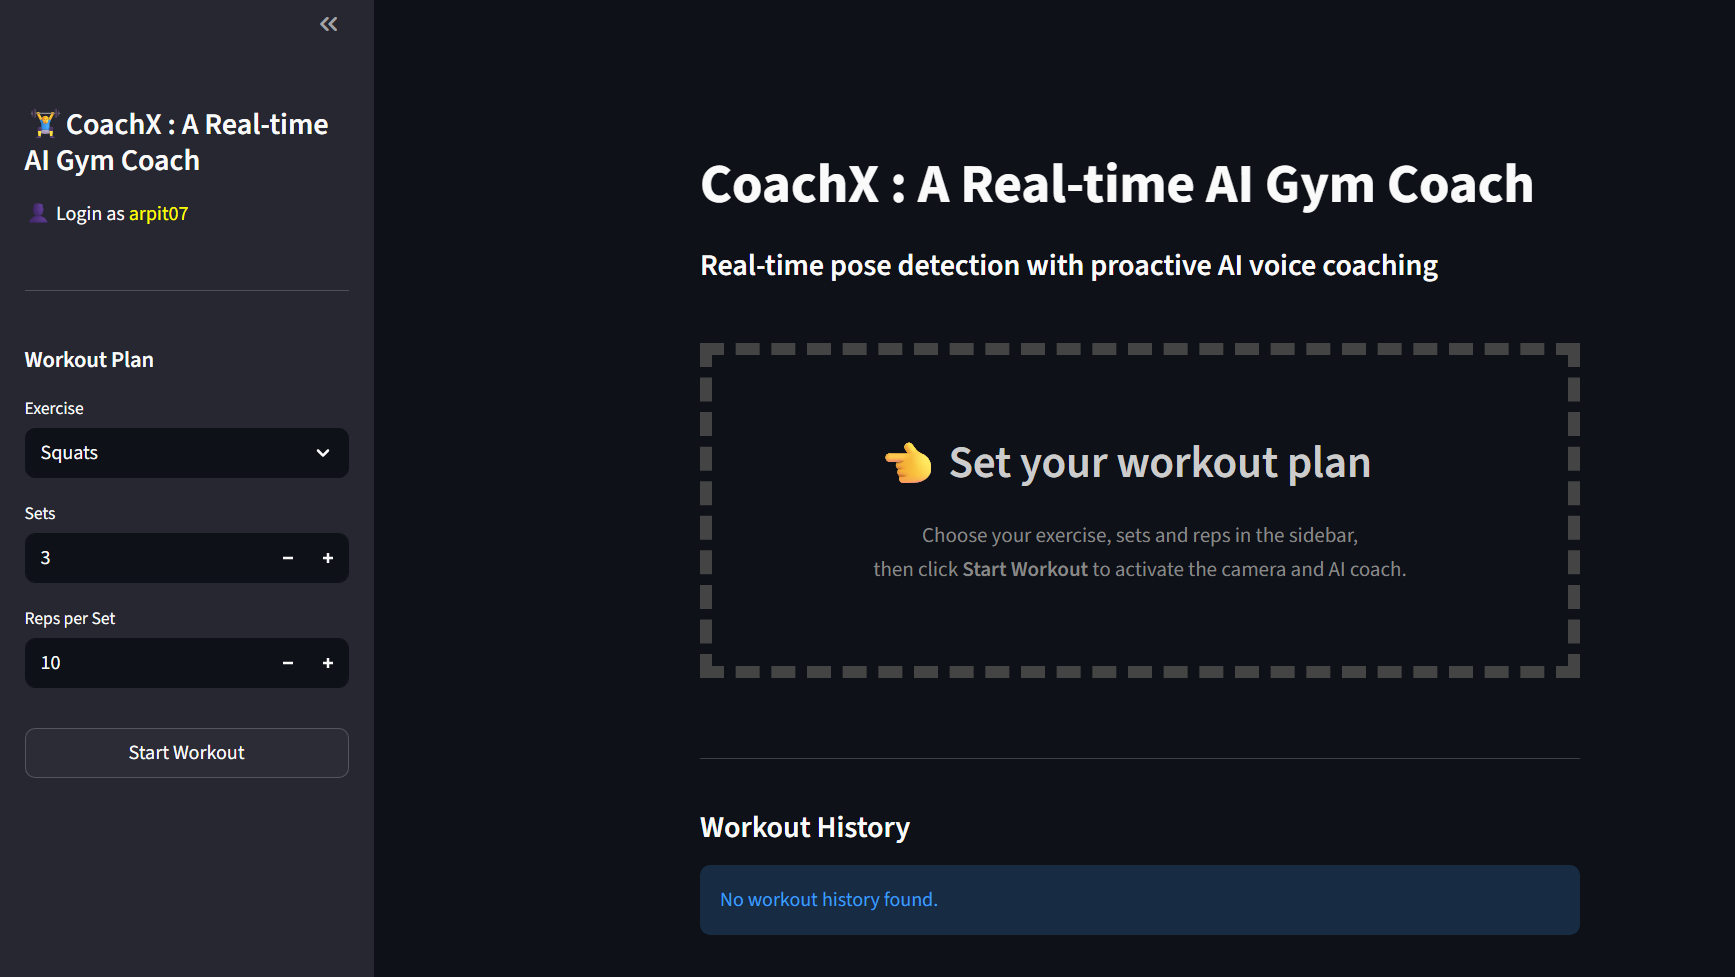
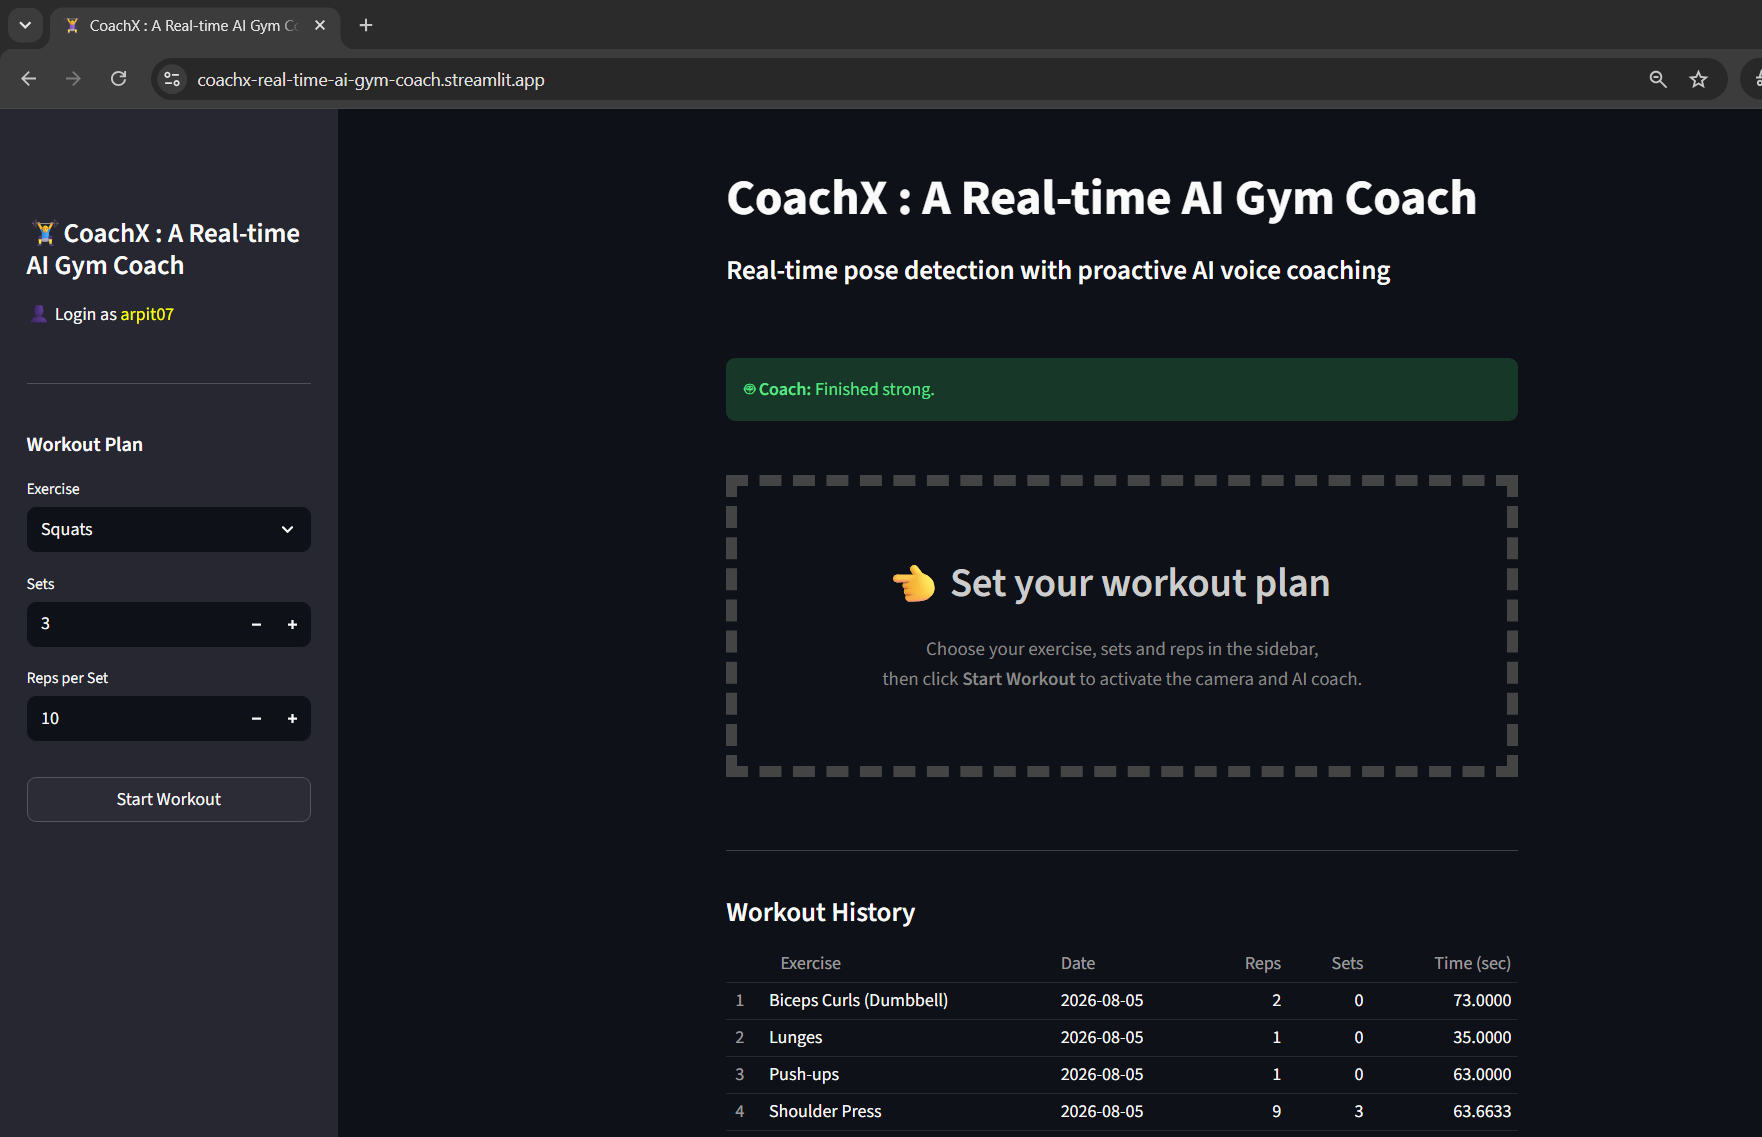
Updated Readme with demo images

diff --git a/README.md b/README.md
@@ -147,9 +147,23 @@ This is why the app is not just a camera feed; it is a real-time inference and c
 
 ## Demo
 
-### Home / Product Landing Page
+### CoachX Landing Page
 
+![CoachX Landing Page 1](assets/CoachX_landing_page1.png)
 
+![CoachX Landing Page 2](assets/CoachX_landing_page2.png)
+
+### CoachX App Login
+
+![CoachX App Login](assets/CoachX_login.png)
+
+### CoachX App Home
+
+![CoachX App Home](assets/CoachX_home.png)
+
+### CoachX App Exercise Demo
+
+![CoachX App Exercise Demo](assets/CoachX_exercise_demo.png)
 
 ### Main App Experience
 
